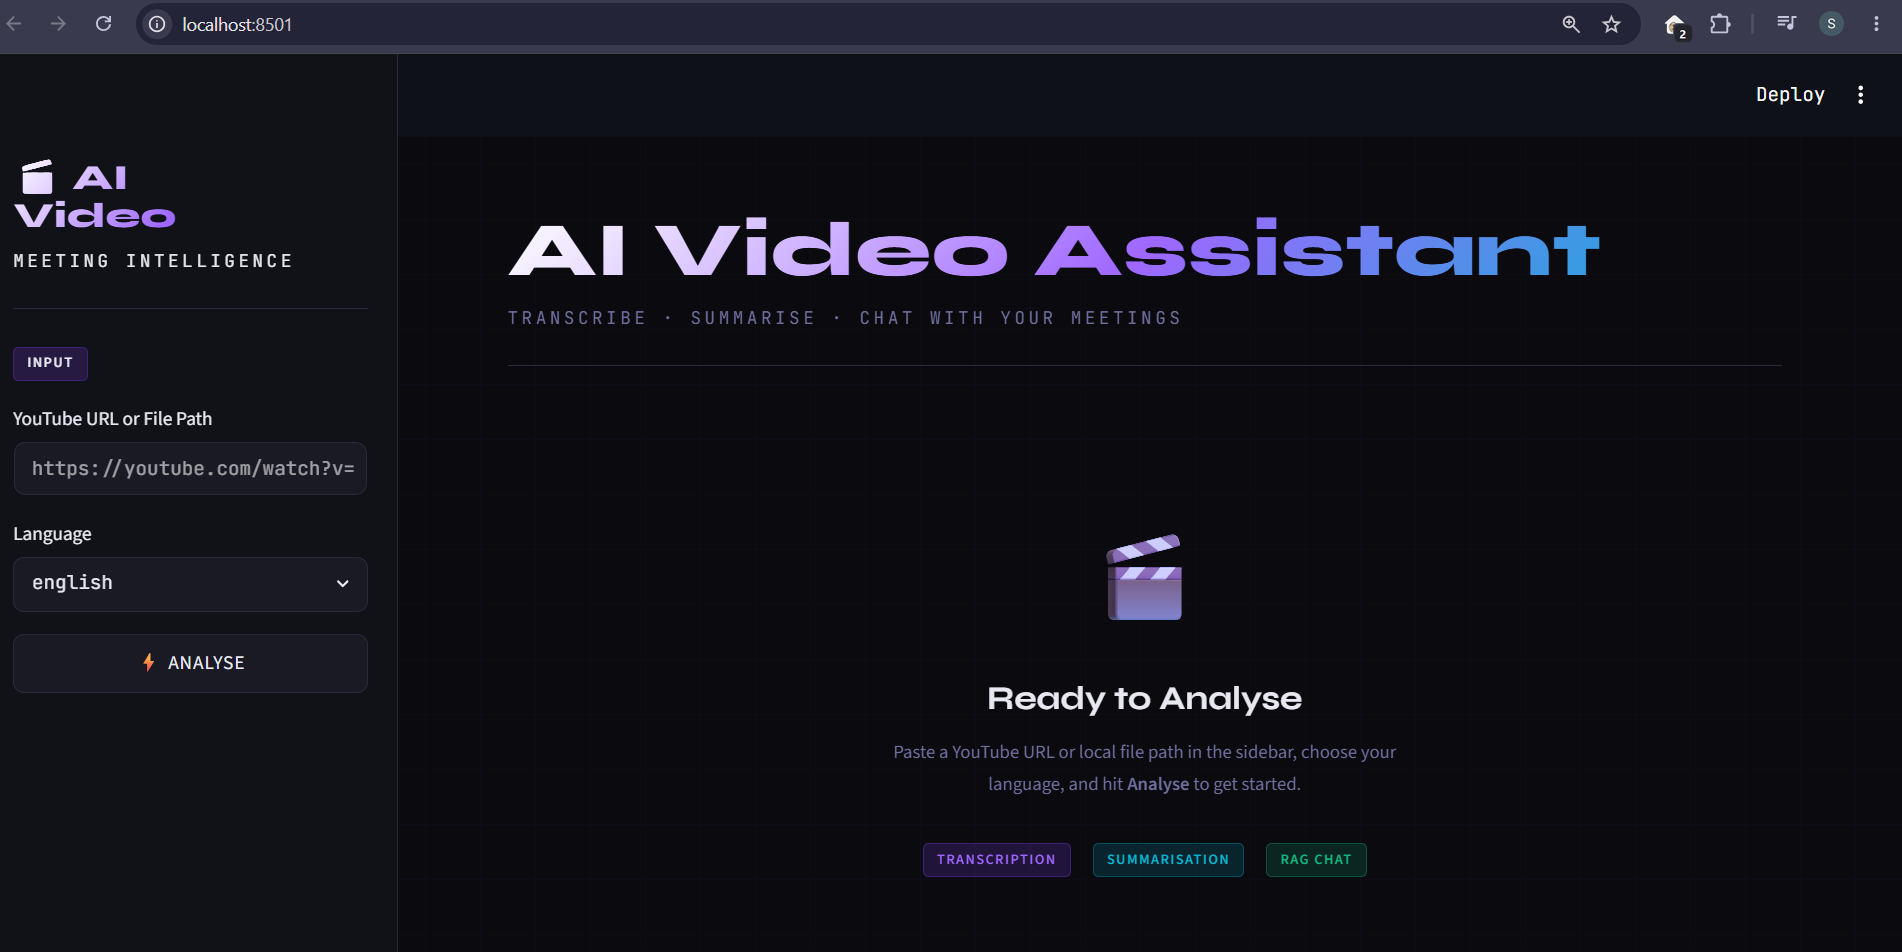
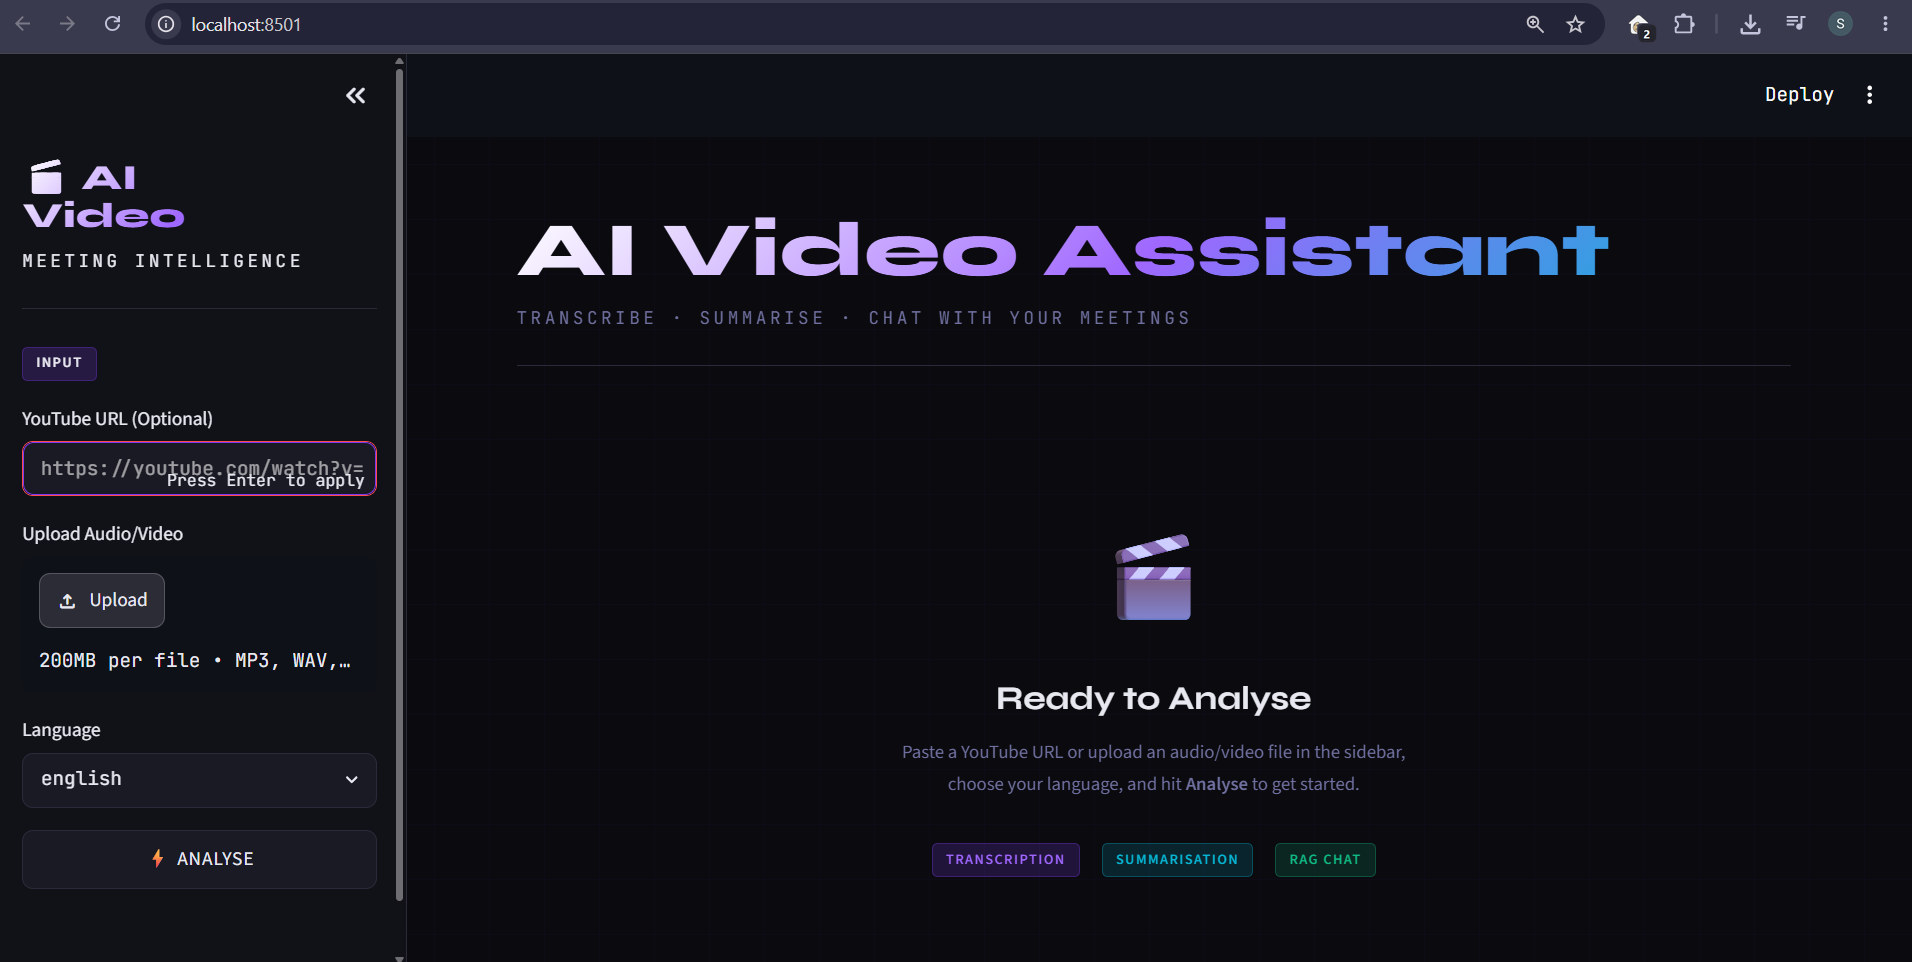
Improving UI

diff --git a/app.py b/app.py
@@ -1,4 +1,6 @@
 import streamlit as st
+import os
+import tempfile
 import time
 from dotenv import load_dotenv
 from utils.audio_processor import process_input
@@ -336,7 +338,15 @@ with st.sidebar:
     st.markdown("---")
 
     st.markdown('<span class="badge badge-purple">Input</span>', unsafe_allow_html=True)
-    source = st.text_input("YouTube URL or File Path", placeholder="https://youtube.com/watch?v=... or /path/to/file.mp4")
+    youtube_url = st.text_input(
+    "YouTube URL (Optional)",
+    placeholder="https://youtube.com/watch?v=..."
+    )
+
+    uploaded_file = st.file_uploader(
+    "Upload Audio/Video",
+    type=["mp3", "wav", "m4a", "mp4", "mov", "avi"]
+    )
 
     language = st.selectbox("Language", ["english", "hinglish"], index=0)
 
@@ -362,8 +372,8 @@ st.markdown("---")
 
 # ── Run Pipeline ────────────────────────────────────────────────────────────────
 if run_btn:
-    if not source.strip():
-        st.error("Please enter a YouTube URL or file path.")
+    if not youtube_url and uploaded_file is None:
+         st.error("Please enter a YouTube URL or upload a file.")
     else:
         st.session_state.pipeline_done = False
         st.session_state.result = None
@@ -380,6 +390,15 @@ if run_btn:
                 st.info("⚙️ Pipeline running — see sidebar for live status…")
 
             update_step("audio", "active")
+            if uploaded_file is not None:
+                suffix = os.path.splitext(uploaded_file.name)[1]
+
+                with tempfile.NamedTemporaryFile(delete=False, suffix=suffix) as tmp:
+                     tmp.write(uploaded_file.read())
+                     source = tmp.name
+            else:
+                source = youtube_url
+
             chunks = process_input(source)
             update_step("audio", "done")
 
@@ -535,7 +554,7 @@ else:
             Ready to Analyse
         </div>
         <div style="color:var(--text-muted);font-size:0.85rem;max-width:380px;line-height:1.7">
-            Paste a YouTube URL or local file path in the sidebar, choose your language, and hit <strong>Analyse</strong> to get started.
+            Paste a YouTube URL or upload an audio/video file in the sidebar, choose your language, and hit <strong>Analyse</strong> to get started.
         </div>
         <div style="margin-top:2rem;display:flex;gap:1rem;flex-wrap:wrap;justify-content:center">
             <span class="badge badge-purple">Transcription</span>